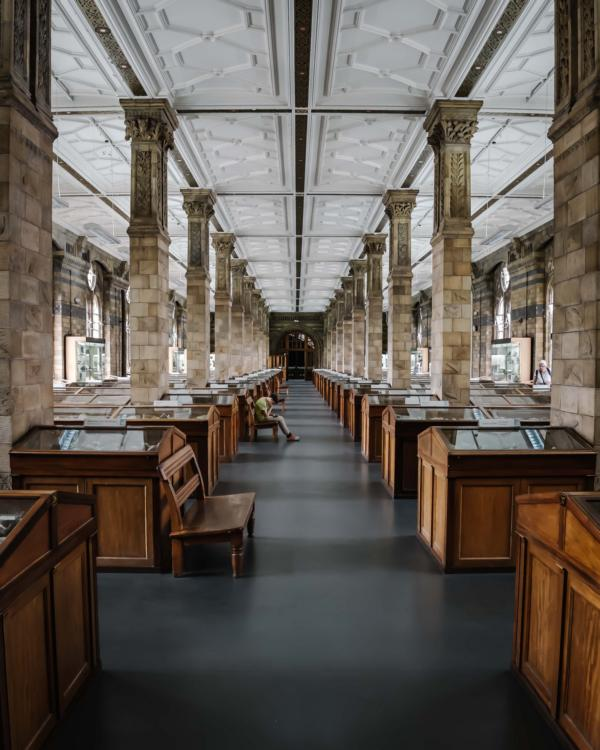
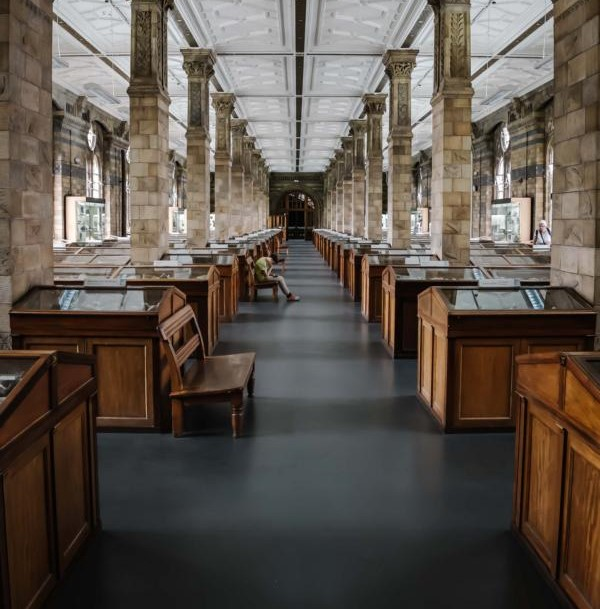
1

diff --git a/visit.html b/visit.html
@@ -54,7 +54,8 @@
         </div>
         <section class="grid">
             <div class="grid-container" id="open">
-                <div class="imagebox" style="background-image: url(Images/CSMMuseum.JPG)" title="View of the museum outside">
+                <div class="imagebox">
+                    <img src="Images/CSMMuseum.JPG" alt="View of the museum outside">
                 </div>
                 <div class="contentbox" style="background-color: #00377E;">
                     <h2>Opening hours</h2>
@@ -91,7 +92,9 @@
                 </div>
             </div>
             <div class="grid-container" id="admission">
-                <div class="imagebox" style="background-image: url(Images/CSMadmission.JPG)" title="Museumlobby"></div>
+                <div class="imagebox">
+                    <img src="Images/CSMadmission.JPG" alt="View of the lobby">
+                </div>
                 <div class="contentbox" style="background-color: #00377E;">
                     <h2>Admission</h2>
                     <p>The entrance is free for all.</p>
@@ -105,7 +108,8 @@
                 </div>
             </div>
             <div class="grid-container">
-                <div class="imagebox" style="background-image: url(Images/CSMmap.JPG)" title="Location of the Museum">
+                <div class="imagebox">
+                    <img src="Images/CSMmap.JPG" alt="Map with location of the museum">
                 </div>
                 <div class="contentbox" style="background-color: #00377E;">
                     <h2>Location</h2>
@@ -124,9 +128,11 @@
                 </div>
             </div>
             <div class="grid-container" id="grid-container-access">
-                <div class="imagebox" style="background-image: url(Images/CSMwheelchair.JPG);border-radius: 5px 0 0 0" title="Wheelchairramp">
+                <div class="imagebox">
+                    <img src="Images/CSMwheelchair.JPG" alt="Wheelchairramp" style="border-radius: 5px 0 0 0">
                 </div>
-                <div class="imagebox" style="background-image: url(Images/CSMheadphones.JPG);border-radius: 0 5px 0 0" title="Guy with headphones">
+                <div class="imagebox">
+                    <img src="Images/CSMheadphones.JPG" alt="Visitor with headphones" style="border-radius: 0 5px 0 0">
                 </div>
                 <div class="contentbox" style="background-color: #00377E;">
                     <h2>Accessibility</h2>
@@ -134,7 +140,8 @@
                 </div>
             </div>
             <div class="grid-container">
-                <div class="imagebox" style="background-image: url(Images/CSMshop.JPG);" title="Museumshop">
+                <div class="imagebox">
+                    <img src="Images/CSMshop.JPG" alt="Museumshop">
                 </div>
                 <div class="contentbox" style="background-color: #00377E;">
                     <h2>Museumshop</h2>
@@ -142,7 +149,8 @@
                 </div>
             </div>
             <div class="grid-container">
-                <div class="imagebox" style="background-image: url(Images/CSMcafe.JPG);" title="Museumscafe">
+                <div class="imagebox">
+                    <img src="Images/CSMcafe.JPG" alt="Museumcafe">
                 </div>
                 <div class="contentbox" style="background-color: #00377E;">
                     <h2>Food and beverages</h2>

diff --git a/index.html b/index.html
@@ -54,7 +54,8 @@
         </div>
     <section class="grid">
         <div class="grid-container">
-            <div class="imagebox" style="background-image: url(Images/CSMmuseumnight.JPG)" title="Museum at night">
+            <div class="imagebox">
+                <img src="Images/CSMmuseumnight.JPG" alt="Museum at night">
             </div>
             <div class="contentbox" style="background-color: #00377E">
                 <h2>Ready for a night at the museum?</h2>
@@ -69,7 +70,8 @@
             </div>
         </div>
         <div class="grid-container">
-            <div class="imagebox" style="background-image: url(Images/CSMprofessor.JPG);" title="Rocketlunch">
+            <div class="imagebox">
+                <img src="Images/CSMprofessor.JPG" alt="Rocket launch">
             </div>
             <div class="contentbox" style="background-color: #00377E;">
                 <h2>Visting professor of aeronautics</h2>
@@ -84,7 +86,8 @@
             </div>
         </div>
         <div class="grid-container">
-            <div class="imagebox" style="background-image: url(Images/CSMenergetica.JPG);" title="Scientists in front of machine">
+            <div class="imagebox">
+                <img src="Images/CSMenergetica.JPG" alt="Scientist working on machine">
             </div>
             <div class="contentbox" style="background-color: #00377E;">
                 <h2>Energetica exhibition</h2>
@@ -105,7 +108,8 @@
         </div>
         <section class="grid">
             <div class="grid-container">
-                <div class="imagebox" style="background-image: url(Images/CSMforkids.JPG)" title="Kid with VR headset">
+                <div class="imagebox">
+                    <img src="Images/CSMforkids.JPG" alt="Kid with VR headset">
                 </div>
                 <div class="contentbox" style="background-color: #00377E;">
                     <h2>For Kids</h2>
@@ -114,7 +118,8 @@
                 </div>
             </div>
             <div class="grid-container">
-                <div class="imagebox" style="background-image: url(Images/CSMforteacher.JPG)" title="Teacher with class">
+                <div class="imagebox">
+                    <img src="Images/CSMforteacher.JPG" alt="Teacher in front of class">
                 </div>
                 <div class="contentbox" style="background-color: #00377E;">
                     <h2>For Teachers</h2>
@@ -123,7 +128,8 @@
                 </div>
             </div>
             <div class="grid-container">
-                <div class="imagebox" style="background-image: url(Images/CSMforresearcher.JPG)" title="Researcher looking trough microscope">
+                <div class="imagebox">
+                    <img src="Images/CSMforresearcher.JPG" alt="Researcher looking through microscope">
                 </div>
                 <div class="contentbox" style="background-color: #00377E;">
                     <h2>For Researchers</h2>

diff --git a/exhibition.html b/exhibition.html
@@ -54,7 +54,8 @@
         </div>
         <section class="grid">
              <div class="grid-container">
-                <div class="imagebox" style="background-image: url(Images/CSMcosmology.JPG)" title="Stars and planets">
+                <div class="imagebox">
+                    <img src="Images/CSMcosmology.JPG" alt="Stars and planets">
                 </div>
                 <div class="contentbox" style="background-color: #002D67;">
                     <h2>Cosmology</h2>
@@ -68,7 +69,8 @@
                 </div>
             </div>
             <div class="grid-container">
-                <div class="imagebox" style="background-image: url(Images/CSMevolution.JPG)" title="Dinosaur hanging in Museum">
+                <div class="imagebox">
+                    <img src="Images/CSMevolution.JPG" alt="Dinosaur hanging in the museum">
                 </div>
                 <div class="contentbox" style="background-color: #002D67;">
                     <h2>Evolution</h2>
@@ -81,7 +83,8 @@
                 </div>
             </div>
             <div class="grid-container">
-                <div class="imagebox" style="background-image: url(Images/CSMbiology.JPG)" title="Heart">
+                <div class="imagebox">
+                    <img src="Images/CSMbiology.JPG" alt="A model of a heart">
                 </div>
                 <div class="contentbox" style="background-color: #002D67;">
                     <h2>Biology/Medicine</h2>
@@ -96,7 +99,8 @@
                 </div>
             </div>
             <div class="grid-container">
-                <div class="imagebox" style="background-image: url(Images/CSMrobot.JPG)" title="Robotface">
+                <div class="imagebox">
+                    <img src="Images/CSMrobot.JPG" alt="Head of a robot">
                 </div>
                 <div class="contentbox" style="background-color: #002D67;">
                     <h2>Robotics and AI</h2>
@@ -109,7 +113,8 @@
                 </div>
             </div>
             <div class="grid-container">
-                <div class="imagebox" style="background-image: url(Images/CSMecology.JPG)" title="A cell closeup">
+                <div class="imagebox">
+                    <img src="Images/CSMecology.JPG" alt="A cell closeup">
                 </div>
                 <div class="contentbox" style="background-color: #002D67;">
                     <h2>Ecology</h2>

diff --git a/explore.html b/explore.html
@@ -54,7 +54,8 @@
         </div>
         <section class="grid">
             <div class="grid-container" id="forkids">
-                <div class="imagebox" style="background-image: url(Images/CSMforkids.JPG)" title="A Kid with VR headset">
+                <div class="imagebox">
+                    <img src="Images/CSMforkids.JPG" alt="Kid with VR headset">
                 </div>
                 <div class="contentbox" style="background-color: #002657;">
                     <h2>For kids</h2>
@@ -70,7 +71,8 @@
                 </div>
             </div>
             <div class="grid-container" id="forteacher">
-                <div class="imagebox" style="background-image: url(Images/CSMforteacher.JPG)" title="Teacher in front of class">
+                <div class="imagebox">
+                    <img src="Images/CSMforteacher.JPG" alt="Teacher in front of class">
                 </div>
                 <div class="contentbox" style="background-color: #002657;">
                     <h2>for Teachers</h2>
@@ -85,7 +87,8 @@
                 </div>
             </div>
             <div class="grid-container" id="forresearcher">
-                <div class="imagebox" style="background-image: url(Images/CSMforresearcher.JPG)" title="Researcher looking trough microscope" >
+                <div class="imagebox">
+                    <img src="Images/CSMforresearcher.JPG" alt="Researcher looking through microscope">
                 </div>
                 <div class="contentbox" style="background-color: #002657;">
                     <h2>for researchers</h2>

diff --git a/involve.html b/involve.html
@@ -54,7 +54,8 @@
         </div>
         <section class="grid">
             <div class="grid-container">
-                <div class="imagebox" style="background-image: url(Images/CSMsupport.JPG)" title="Handshake">
+                <div class="imagebox">
+                    <img src="Images/CSMsupport.JPG" alt="Handshake">
                 </div>
                 <div class="contentbox" style="background-color: #002D67;">
                     <h2>Support</h2>
@@ -68,7 +69,8 @@
                 </div>
             </div>
             <div class="grid-container">
-                <div class="imagebox" style="background-image: url(Images/CSMvolunteer.JPG)" title="Volunteer">
+                <div class="imagebox">
+                    <img src="Images/CSMvolunteer.JPG" alt="Volunteer in the museum">
                 </div>
                 <div class="contentbox" style="background-color: #002D67;">
                     <h2>Volunteer</h2>
@@ -83,7 +85,8 @@
                 </div>
             </div>
             <div class="grid-container">
-                <div class="imagebox" style="background-image: url(Images/CSMinternship.JPG)" title="Museumsview">
+                <div class="imagebox">
+                    <img src="Images/CSMinternship.JPG" alt="Inside the museum">
                 </div>
                 <div class="contentbox" style="background-color: #002D67;">
                     <h2>Internships</h2>

diff --git a/style.css b/style.css
@@ -154,7 +154,7 @@ i, a {
 .grid-container-column {
     display: grid;
     grid-auto-columns: minmax(250px,500px) ;
-    grid-auto-rows: auto minmax(300px, max-content) 1fr;
+    grid-auto-rows: auto minmax(200px,300px) 1fr;
     justify-content: center;
 }
 .grid-container-column .contentbox {
@@ -166,16 +166,19 @@ i, a {
 }
 #grid-container-access {
     grid-template-columns: minmax(100px, 150px) minmax(100px, 150px);
-    
 }
 #grid-container-access .contentbox {
     grid-column: 1/3;
 }
 .imagebox {
-    background-size: cover;
-    background-repeat: no-repeat;
-    background-position: center;
+    display: grid;
+}
+.imagebox img {
+    max-width: 100%;
+    height: 100%;
     border-radius: 5px 5px 0 0;
+    object-fit: cover;
+    
 }
 .contentbox {
     padding: 10px 20px;

diff --git a/contactabout.html b/contactabout.html
@@ -53,7 +53,8 @@
            <div class="grid-container-column">
                 <div class="headline">
                     <h1>About us</h1></div>
-                <div class="imagebox" style="background-image: url(Images/CSMabout.JPG)" title="View of the museum inside">
+                <div class="imagebox">
+                    <img src="Images/CSMabout.JPG" alt="View of an exhibition">
                 </div>
                 <div class="contentbox" style="background-color: #002657;">
                     <p>Come join us at the Community Science Museum where we`re committed to making science accessible to all.</p>
